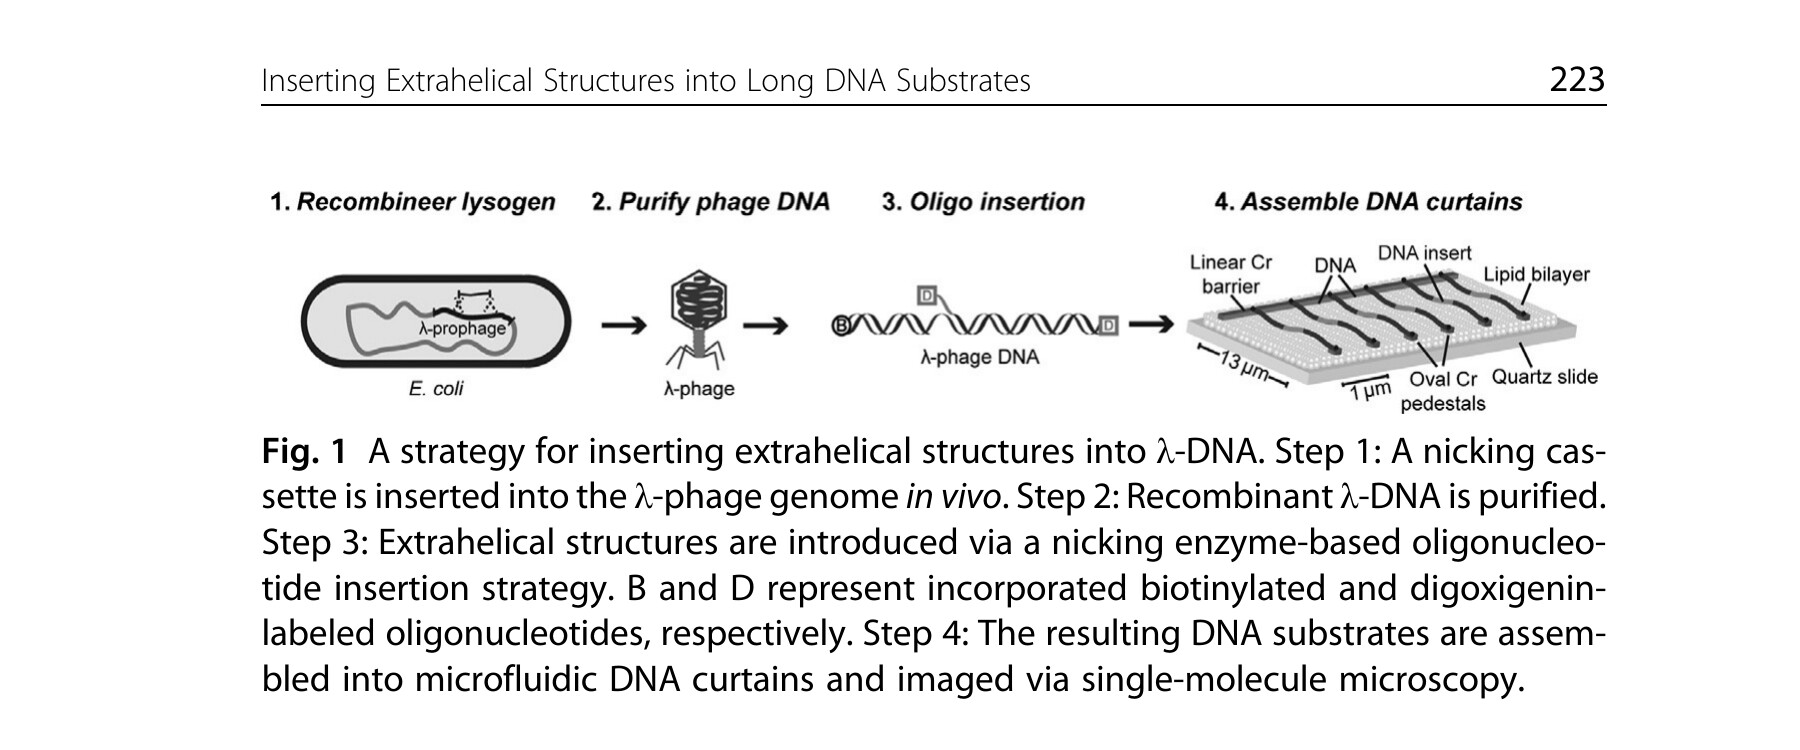
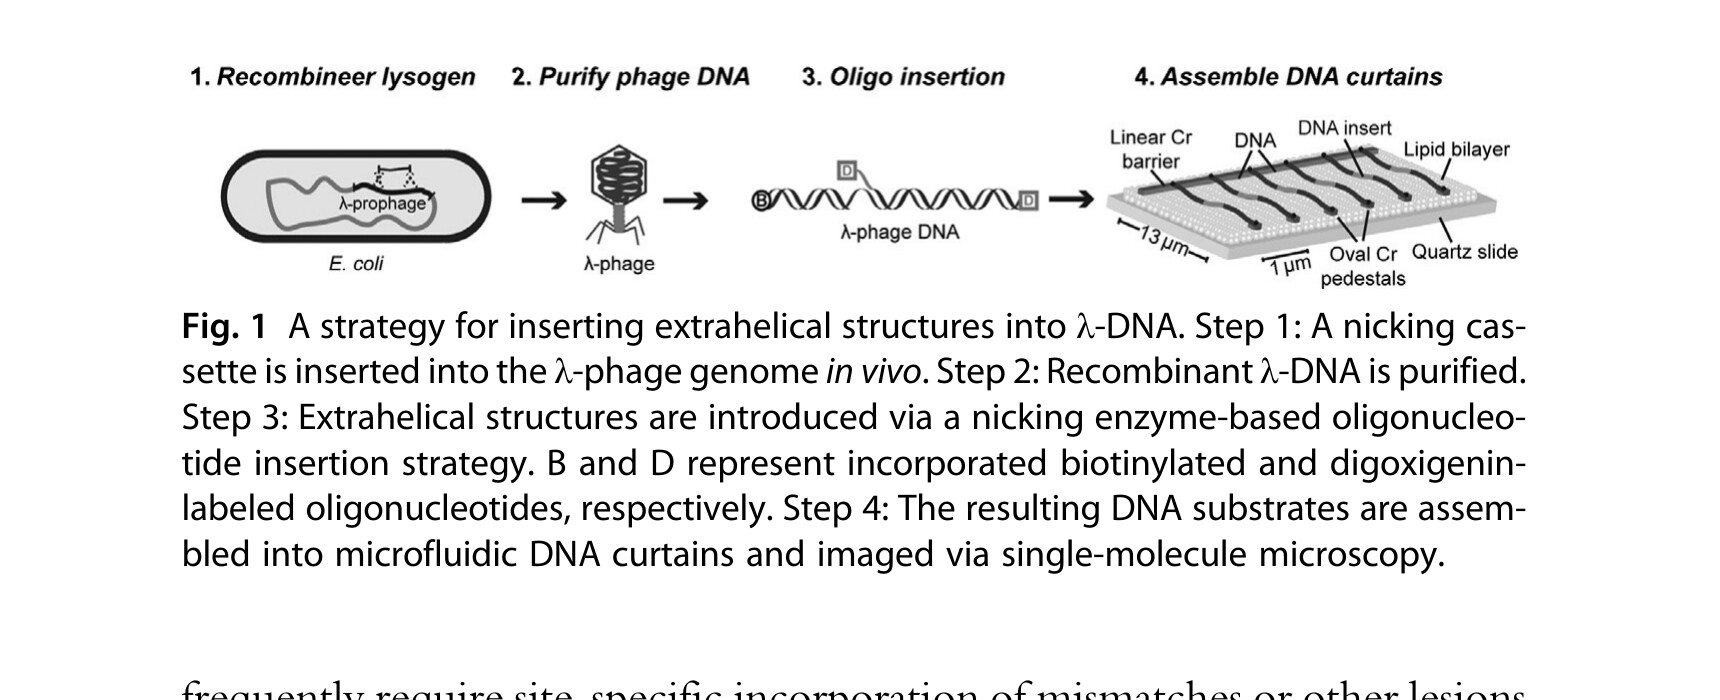
fix(papers): review corrections for papers 8, 32, 89
Paper 32: recrop fig1.jpg (remove page header chrome), italicize
  "Asterisk" in Fig 4 caption.
Paper 8: recrop fig3+fig4 (add x-axis labels), fix ref 74 journal
  name (J. Chem. Phys. → J. Phys. Chem.), fix primer bold → italic.
Paper 89: fix volume number (2504 → 2762), add equal-contribution
  footnote.
Paper 5: ref 49 matches PDF (duplicate of ref 48 in original paper).

diff --git a/assets/md/2006-09-28-cytochrome-c552-mutants/index.md b/assets/md/2006-09-28-cytochrome-c552-mutants/index.md
@@ -52,7 +52,7 @@ The vibrational echo data revealed that the ultrafast active site dynamics (≤1
 
 ## II. Materials and Methods
 
-**A. Protein Expression and Purification.** Preparation of Ht-M61A and Ht-M61A/Q64N utilized an *E. coli*-based expression system.[<sup>50,52</sup>](#ref50) Molecular biology procedures and materials and the preparation of Ht-M61A are described in detail elsewhere.[<sup>22,53</sup>](#ref22) To prepare Ht-M61A/Q64N, the polymerase chain reaction overlap extension method[<sup>54</sup>](#ref54) was employed using the pSHC552A61 expression plasmid[<sup>53</sup>](#ref53) as the template. The mutagenic primers (mutation site italicized) were 5′-CCCGCGCCTCCTAAT**A**ATGTAACC-3′ and 5′-CGGTTACATTATTAGGAGGCGCGG-3′. Cloning, expression, and purification of Ht-M61A/Q64N were as described for Ht-M61A.[<sup>53</sup>](#ref53)
+**A. Protein Expression and Purification.** Preparation of Ht-M61A and Ht-M61A/Q64N utilized an *E. coli*-based expression system.[<sup>50,52</sup>](#ref50) Molecular biology procedures and materials and the preparation of Ht-M61A are described in detail elsewhere.[<sup>22,53</sup>](#ref22) To prepare Ht-M61A/Q64N, the polymerase chain reaction overlap extension method[<sup>54</sup>](#ref54) was employed using the pSHC552A61 expression plasmid[<sup>53</sup>](#ref53) as the template. The mutagenic primers (mutation site italicized) were 5′-CCCGCGCCTCCTAAT*A*ATGTAACC-3′ and 5′-CGGTTACAT*T*ATTAGGAGGCGCGG-3′. Cloning, expression, and purification of Ht-M61A/Q64N were as described for Ht-M61A.[<sup>53</sup>](#ref53)
 
 **B. Sample Preparation for Vibrational Echo Spectroscopy.** To prepare aqueous samples of carbonmonoxy Ht-M61A and Ht-M61A/Q64N, 10 mg of lyophilized protein was dissolved in 1.0 mL of pH 7.0 H₂O phosphate buffer (50 mM). The buffer pH was measured before addition of protein. The solutions were reduced with a 5-fold excess of dithionite (Sigma Aldrich) and stirred under a CO atmosphere for 1 h. The solutions were centrifuged at 3000 relative centrifugal force for 15 min through a 0.45 µm acetate filter (Pall Nanosep MF) to remove particulates. The samples were further concentrated by repeated centrifugation (Eppendorf 5415D) over modified polyethersulfone membranes (Pall Nanosep 3K Omega) to a final protein concentration of 10–15 mM. The sample was then placed in a sample cell with CaF₂ windows and a 50 µm Teflon spacer. UV-visible (Varian Cary 3E) and Fourier transform infrared (FTIR; ATI Mattson Infinity 9495) absorption spectroscopies were performed to determine all protein concentrations. The samples had mid-IR absorbances of 0.1 at the CO stretching frequency on a background absorbance of 0.5.
 
@@ -315,7 +315,7 @@ This work was supported by the National Institutes of Health (NIH; Grant No. 2 R
 
 <span id="ref73">73.</span> Tan, H.-S.; Piletic, I. R.; Riter, R. E.; Levinger, N. E.; Fayer, M. D. *Phys. Rev. Lett.* **2005**, *94*, 057405.
 
-<span id="ref74">74.</span> Cho, M. H.; Yu, J. Y.; Joo, T. H.; Nagasawa, Y.; Passino, S. A.; Fleming, G. R. *J. Chem. Phys.* **1996**, *100*, 11944–11953.
+<span id="ref74">74.</span> Cho, M. H.; Yu, J. Y.; Joo, T. H.; Nagasawa, Y.; Passino, S. A.; Fleming, G. R. *J. Phys. Chem.* **1996**, *100*, 11944–11953.
 
 <span id="ref75">75.</span> Passino, S. A.; Nagasawa, Y.; Joo, T.; Fleming, G. R. *J. Phys. Chem. A* **1997**, *101*, 725–731.
 

diff --git a/assets/md/2016-10-24-mmr-methods-enzymology-chapter/index.md b/assets/md/2016-10-24-mmr-methods-enzymology-chapter/index.md
@@ -255,7 +255,7 @@ The nicking cassette contains NcoI and NotI motifs for measuring oligonucleotide
 
 <figure class="paper-figure" id="fig4">
 <img src="fig4.jpg" alt="Figure 4">
-<figcaption><strong>Fig. 4</strong> Visualizing Msh2–Msh3 binding to an extrahelical ssDNA flap. (A) Cartoon representation (<em>left</em>) and picture (<em>right</em>) of a microscope-mounted flowcell. The picture highlights the microfluidic connectors and the quartz prism. (B) Distribution of Msh2–Msh3 molecules on flap-containing λ-DNA. The <em>black line</em> is a Gaussian fit to the data (<em>n</em> = 503). The center of the peak corresponds to the expected location of the lesion (20 kb from the top DNA barrier, error is SD). <em>Inset</em>: Seven representative λ-DNA molecules (<em>light gray vertical lines</em>) with flap-bound Msh2–Msh3 (<em>black points</em>). Msh2–Msh3 recognizes lesions via (C) 1D diffusion along the DNA or (D) a direct encounter (3D collision). Each panel shows a cartoon illustration (<em>top</em>), kymograph (<em>middle</em>), and single-particle trajectory of Msh2–Msh3 (<em>black</em>) binding a DNA flap (3′-ssDNA flap; marked as 3′). Asterisk indicates transient binding by a second Msh2–Msh3. In both cases, Msh2–Msh3 releases the flap and continues to diffuse on homoduplex λ-DNA.</figcaption>
+<figcaption><strong>Fig. 4</strong> Visualizing Msh2–Msh3 binding to an extrahelical ssDNA flap. (A) Cartoon representation (<em>left</em>) and picture (<em>right</em>) of a microscope-mounted flowcell. The picture highlights the microfluidic connectors and the quartz prism. (B) Distribution of Msh2–Msh3 molecules on flap-containing λ-DNA. The <em>black line</em> is a Gaussian fit to the data (<em>n</em> = 503). The center of the peak corresponds to the expected location of the lesion (20 kb from the top DNA barrier, error is SD). <em>Inset</em>: Seven representative λ-DNA molecules (<em>light gray vertical lines</em>) with flap-bound Msh2–Msh3 (<em>black points</em>). Msh2–Msh3 recognizes lesions via (C) 1D diffusion along the DNA or (D) a direct encounter (3D collision). Each panel shows a cartoon illustration (<em>top</em>), kymograph (<em>middle</em>), and single-particle trajectory of Msh2–Msh3 (<em>black</em>) binding a DNA flap (3′-ssDNA flap; marked as 3′). <em>Asterisk</em> indicates transient binding by a second Msh2–Msh3. In both cases, Msh2–Msh3 releases the flap and continues to diffuse on homoduplex λ-DNA.</figcaption>
 </figure>
 
 ### 3.6 Analyzing Single-Molecule Traces {#analyzing-traces}

diff --git a/assets/md/2024-04-23-Mammalian-antigen-display/index.md b/assets/md/2024-04-23-Mammalian-antigen-display/index.md
@@ -7,9 +7,11 @@ doi: 10.1007/978-1-0716-3666-4_12
 
 # Mammalian Antigen Display for Pandemic Countermeasures
 
-**Andrea Quezada, Ankur Annapareddy, Kamyab Javanmardi, John Cooper, and Ilya J. Finkelstein**
+**Andrea Quezada<sup>#</sup>, Ankur Annapareddy<sup>#</sup>, Kamyab Javanmardi, John Cooper, and Ilya J. Finkelstein**
 
-*Methods in Molecular Biology, Vol. 2504, pp. 191–216, 2024*
+<sup>#</sup>These authors contributed equally to this work.
+
+*Methods in Molecular Biology, Vol. 2762, pp. 191–216, 2024*
 
 **DOI:** [10.1007/978-1-0716-3666-4_12](https://doi.org/10.1007/978-1-0716-3666-4_12)
 
